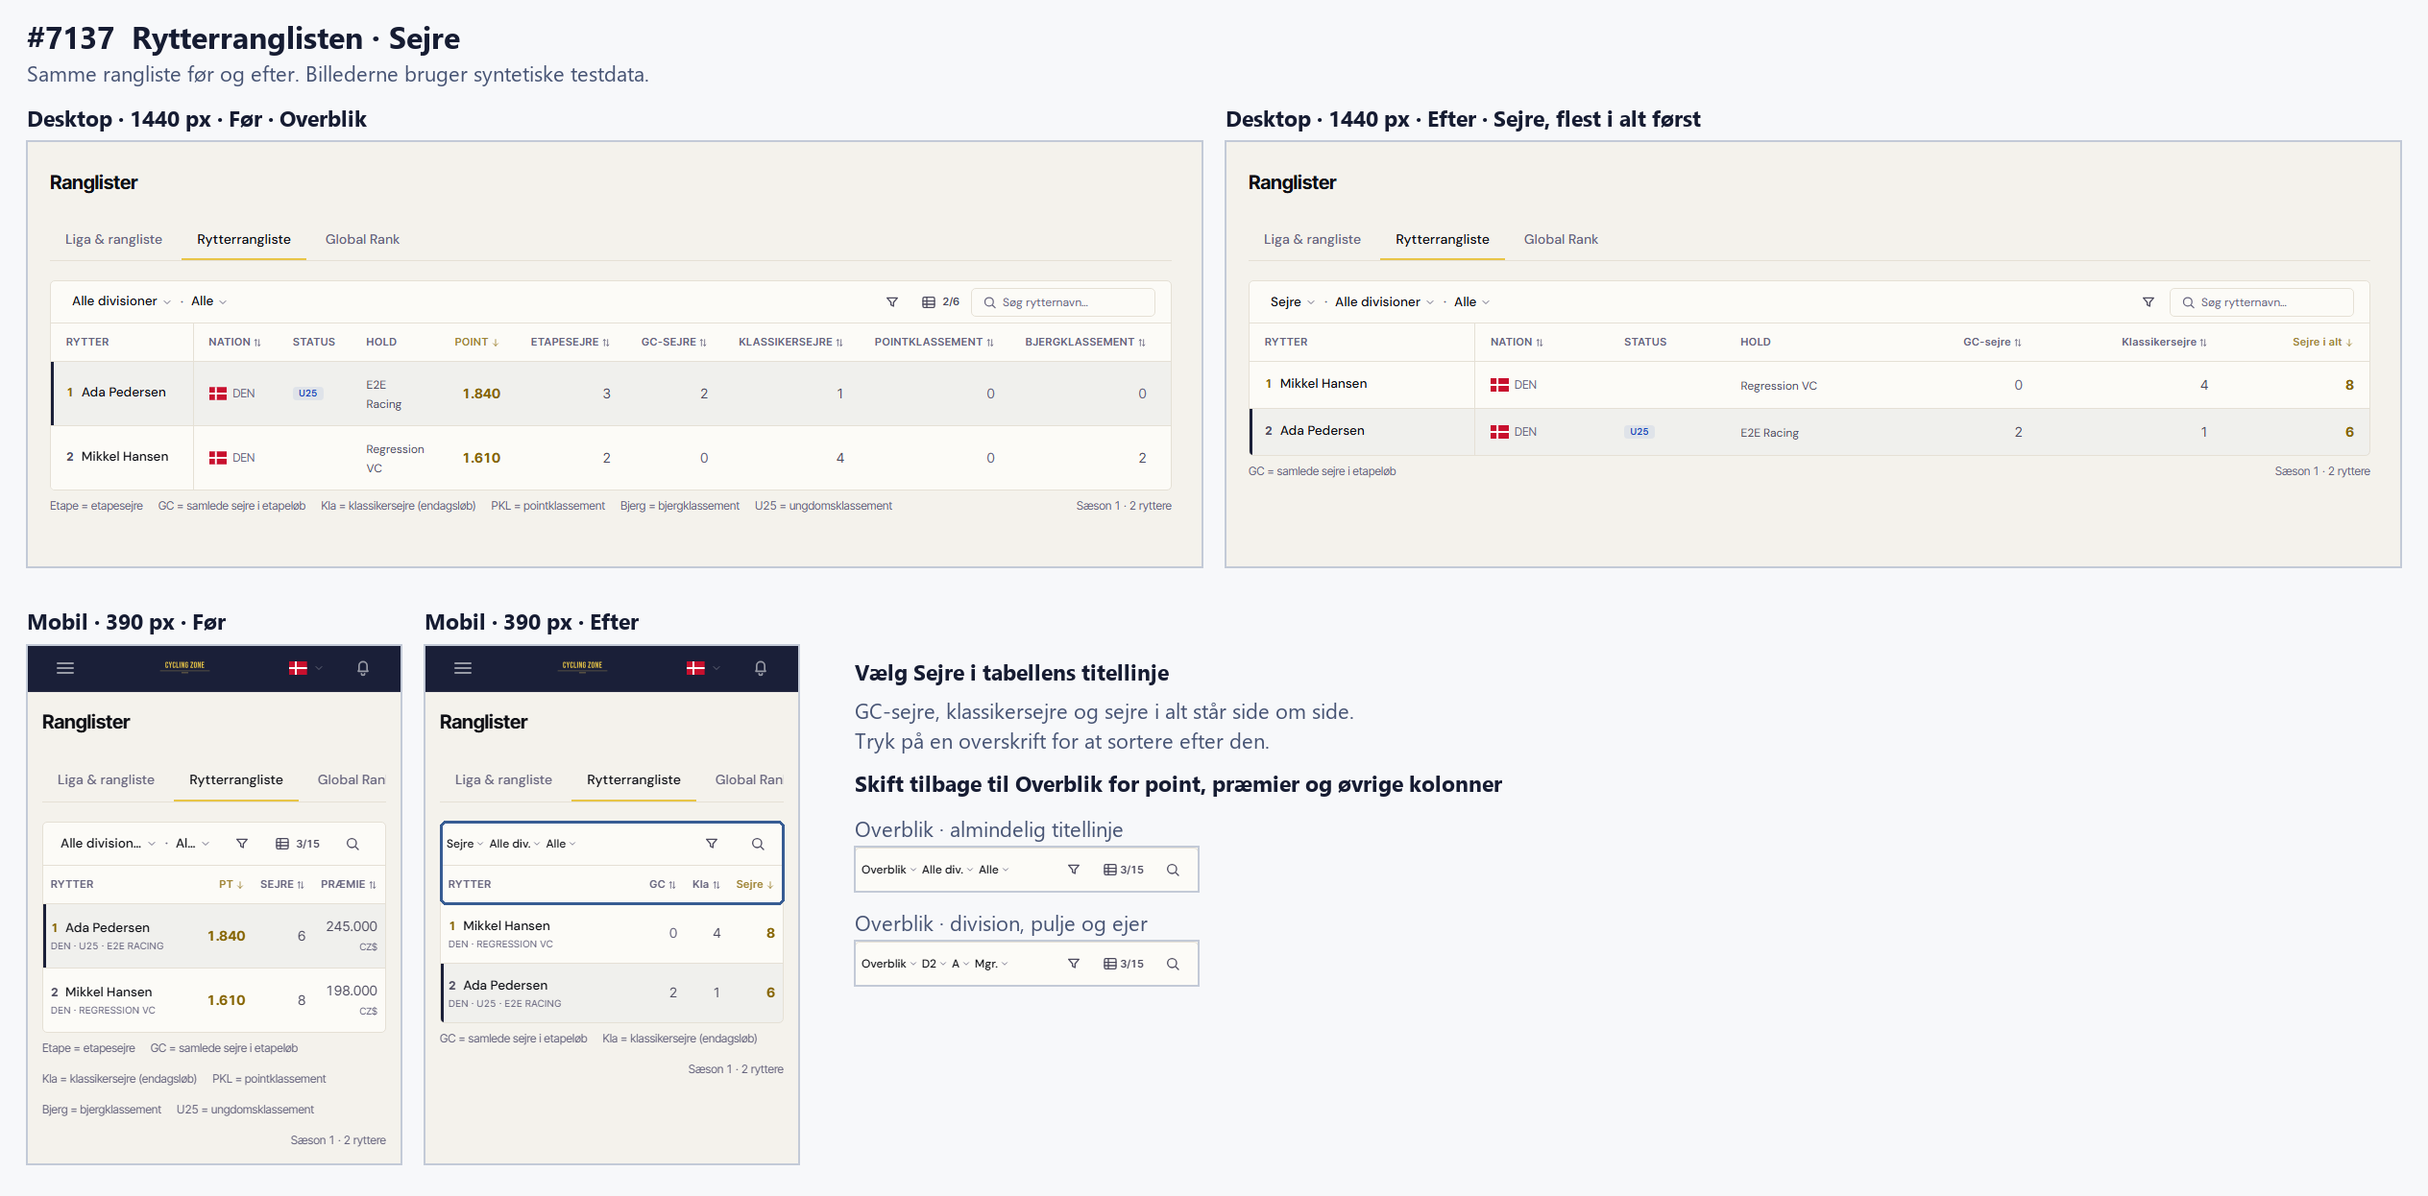
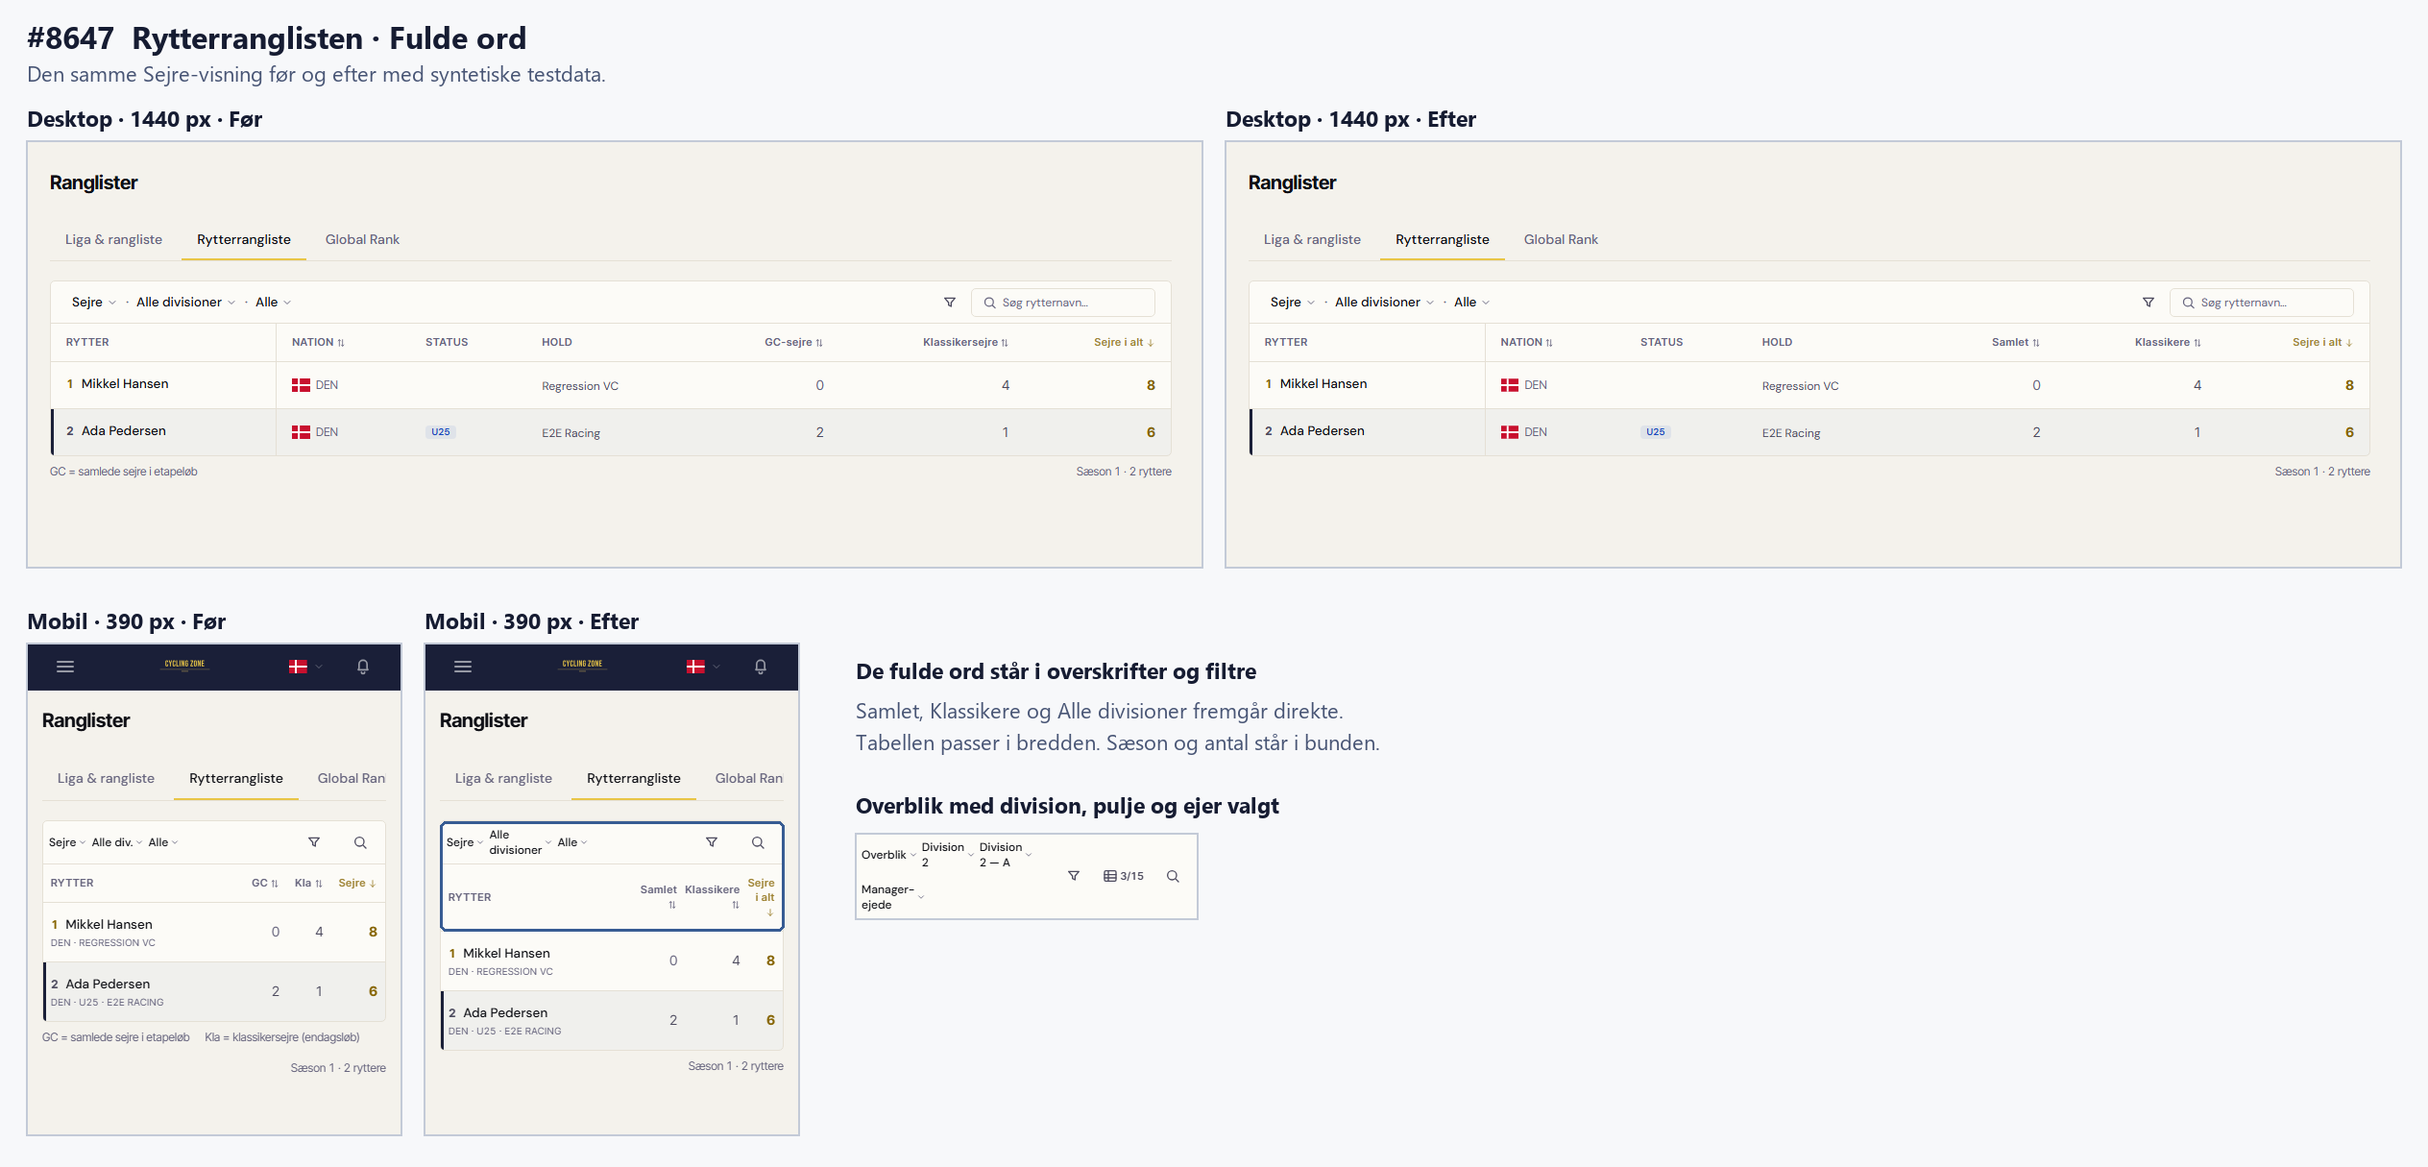
fix(rankings): spell out mobile column and filter labels
Refs #7137

diff --git a/frontend/src/pages/RiderRankingsPage.jsx b/frontend/src/pages/RiderRankingsPage.jsx
@@ -40,8 +40,8 @@ const ALL_DIVISIONS = Array.from(
 // Altid-synlige sejr-kolonner (kategori-sejre) — venstre→højre.
 const WIN_COLS = [
   { key: "stage_wins",   labelKey: "rankings.colStageWins",   shortKey: "rankings.shortStageWins" },
-  { key: "gc_wins",      labelKey: "rankings.colGcWins",      shortKey: "rankings.shortGcWins" },
-  { key: "classic_wins", labelKey: "rankings.colClassicWins", shortKey: "rankings.shortClassicWins" },
+  { key: "gc_wins",      labelKey: "rankings.colGcWins",      shortKey: "rankings.colGcWins" },
+  { key: "classic_wins", labelKey: "rankings.colClassicWins", shortKey: "rankings.colClassicWins" },
   { key: "pts_wins",     labelKey: "rankings.colPtsWins",     shortKey: "rankings.shortPtsWins" },
   { key: "mtn_wins",     labelKey: "rankings.colMtnWins",     shortKey: "rankings.shortMtnWins" },
   { key: "young_wins",   labelKey: "rankings.colYoungWins",   shortKey: "rankings.shortYoungWins" },
@@ -85,10 +85,10 @@ function loadColumnVisibility() {
 }
 
 const OWNER_FILTERS = [
-  { key: "all",     labelKey: "rankings.ownerAll",     shortKey: "rankings.ownerAll" },
-  { key: "manager", labelKey: "rankings.ownerManager", shortKey: "rankings.shortOwnerManager" },
-  { key: "ai",      labelKey: "rankings.ownerAi",      shortKey: "rankings.shortOwnerAi" },
-  { key: "free",    labelKey: "rankings.ownerFree",    shortKey: "rankings.shortOwnerFree" },
+  { key: "all",     labelKey: "rankings.ownerAll" },
+  { key: "manager", labelKey: "rankings.ownerManager" },
+  { key: "ai",      labelKey: "rankings.ownerAi" },
+  { key: "free",    labelKey: "rankings.ownerFree" },
 ];
 
 // Dobbelt header-label (kort på mobil, langt på desktop) — bevaret 1:1 fra den
@@ -361,7 +361,6 @@ export default function RiderRankingsPage() {
       key: col.key,
       header: <ColHeader t={t} labelKey={col.labelKey} shortKey={col.shortKey} />,
       mobileLabel: t(col.labelKey),
-      shortLabel: t(col.shortKey),
       numeric: true,
       sortKey: col.key,
       render: (rider) => <StatCell value={rider[col.key]} active={sortKey === col.key} />,
@@ -371,7 +370,6 @@ export default function RiderRankingsPage() {
       key: "total_wins",
       header: <ColHeader t={t} labelKey="rankings.colTotalWins" shortKey="rankings.shortTotalWins" />,
       mobileLabel: t("rankings.colTotalWins"),
-      shortLabel: t("rankings.shortTotalWins"),
       numeric: true,
       sortKey: "total_wins",
       render: (rider) => <StatCell value={rider.total_wins} active={sortKey === "total_wins"} />,
@@ -407,22 +405,15 @@ export default function RiderRankingsPage() {
       WIN_VIEW_KEYS.includes(col.key) || ("sticky" in col && col.sticky) || ("fold" in col && col.fold)
     )).map(col => {
       if (!WIN_VIEW_KEYS.includes(col.key) || typeof col.mobileLabel !== "string") return col;
-      const label = col.mobileLabel;
-      const buttonText = isMobile && "shortLabel" in col && typeof col.shortLabel === "string"
-        ? col.shortLabel
-        : label;
-      const accessibleLabel = label.toLowerCase().includes(buttonText.toLowerCase())
-        ? label
-        : `${buttonText}: ${label}`;
       return {
         ...col,
-        nowrapHeader: true,
+        tight: isMobile,
         // DataTable handles bubbled clicks and exposes its current aria-sort on the th.
         header: (
-          <button type="button" title={label} aria-label={accessibleLabel}
+          <button type="button"
             className="cursor-pointer rounded-cz text-end focus-visible:outline-2 focus-visible:outline-cz-accent-t"
           >
-            {buttonText}
+            {col.mobileLabel}
           </button>
         ),
       };
@@ -454,9 +445,9 @@ export default function RiderRankingsPage() {
         value: selection.tier ?? ALL_DIVISIONS_VALUE,
         onChange: e => changeDivision(e.target.value),
         options: [
-          { value: ALL_DIVISIONS_VALUE, label: t("rankings.divisionFilterAll"), shortLabel: t("rankings.shortDivisionAll") },
+          { value: ALL_DIVISIONS_VALUE, label: t("rankings.divisionFilterAll") },
           ...ALL_DIVISIONS.map(d => ({
-            value: String(d), label: t("rankings.divisionFilterOption", { n: d }), shortLabel: t("rankings.shortDivision", { n: d }),
+            value: String(d), label: t("rankings.divisionFilterOption", { n: d }),
           })),
         ],
       },
@@ -466,8 +457,8 @@ export default function RiderRankingsPage() {
         value: selection.poolId ?? ALL_POOLS_VALUE,
         onChange: e => changePool(e.target.value),
         options: [
-          { value: ALL_POOLS_VALUE, label: t("rankings.poolFilterAll"), shortLabel: t("rankings.shortPoolAll") },
-          ...tierPools.map(p => ({ value: String(p.id), label: p.label, shortLabel: String.fromCharCode(65 + p.pool_index) })),
+          { value: ALL_POOLS_VALUE, label: t("rankings.poolFilterAll") },
+          ...tierPools.map(p => ({ value: String(p.id), label: p.label })),
         ],
       }] : []),
       {
@@ -475,7 +466,7 @@ export default function RiderRankingsPage() {
         ariaLabel: t("rankings.ownerFilterLabel"),
         value: ownerFilter,
         onChange: e => setOwnerFilter(e.target.value),
-        options: OWNER_FILTERS.map(f => ({ value: f.key, label: t(f.labelKey), shortLabel: t(f.shortKey) })),
+        options: OWNER_FILTERS.map(f => ({ value: f.key, label: t(f.labelKey) })),
       },
     ],
     // #1004: filter på ét konkret hold (fx for at se egne ryttere samlet).
@@ -556,8 +547,6 @@ export default function RiderRankingsPage() {
           count={
             <div className="flex flex-wrap items-center gap-4">
               {!showWins && <span>{t("rankings.legendStage")}</span>}
-              <span>{t("rankings.legendGc")}</span>
-              {(!showWins || isMobile) && <span>{t("rankings.legendClassic")}</span>}
               {!showWins && <>
                 <span>{t("rankings.legendPcl")}</span>
                 <span>{t("rankings.legendMtn")}</span>

diff --git a/frontend/tests/e2e/rider-ranking-wins.spec.ts b/frontend/tests/e2e/rider-ranking-wins.spec.ts
@@ -3,6 +3,8 @@ import { corsHeaders, installNetworkMocks, json, login, stabilizePage } from "./
 import { RIDERS, SEED_RIDER_RANKINGS } from "../../src/preview/seedData.js";
 
 test("#7137 compares all three win counts and restores the overview", async ({ page }) => {
+  const mobile = (page.viewportSize()?.width ?? 1280) <= 640;
+  if (mobile) await page.setViewportSize({ width: 390, height: 844 });
   await stabilizePage(page);
   await installNetworkMocks(page);
   await page.route("**/api/rankings/riders?**", (route) => {
@@ -25,12 +27,14 @@ test("#7137 compares all three win counts and restores the overview", async ({ p
   const firstRider = table.locator("tbody tr").first().getByRole("link").first();
   await expect(firstRider).toHaveAttribute("href", "/riders/rider-1");
 
-  const mobile = (page.viewportSize()?.width ?? 1280) <= 640;
+  const titleBar = page.getByTestId("table-title-bar");
+  const divisionLabel = titleBar.locator('label > span[title="Alle divisioner"]');
+  await expect(divisionLabel).toHaveText("Alle divisioner", { useInnerText: true });
   if (mobile) {
     await page.getByTestId("table-columns-open").click();
-    await page.getByRole("button", { name: "GC-sejre", exact: true }).click();
+    await page.getByRole("button", { name: "Samlet", exact: true }).click();
     await page.keyboard.press("Escape");
-    await expect(table.getByRole("columnheader", { name: /^GC$/ })).toBeVisible();
+    await expect(table.getByRole("columnheader", { name: "Samlet", exact: true })).toBeVisible();
   }
 
   // Preserve a non-default overview sort when switching modes.
@@ -42,11 +46,16 @@ test("#7137 compares all three win counts and restores the overview", async ({ p
 
   const view = page.getByRole("combobox", { name: "Visning", exact: true });
   await view.selectOption("wins");
-  const gc = table.getByRole("columnheader", { name: "GC-sejre", exact: true });
-  const classic = table.getByRole("columnheader", { name: "Klassikersejre", exact: true });
+  const gc = table.getByRole("columnheader", { name: "Samlet", exact: true });
+  const classic = table.getByRole("columnheader", { name: "Klassikere", exact: true });
   const total = table.getByRole("columnheader", { name: "Sejre i alt", exact: true });
   for (const column of [gc, classic, total]) await expect(column).toBeVisible();
   await expect(total).toHaveAttribute("aria-sort", "descending");
+  await expect(page.getByText(/GC\s*=|Kla\s*=/)).toHaveCount(0);
+  if (mobile) {
+    expect(await table.evaluate(node => node.scrollWidth)).toBeLessThanOrEqual(390);
+    expect(await page.evaluate(() => document.documentElement.scrollWidth)).toBe(390);
+  }
   await expect(firstRider).toHaveAttribute("href", "/riders/rider-2");
 
   // 2 stage + 4 classic + 2 mountain wins; the GC field can be zero.
@@ -76,16 +85,16 @@ test("#7137 compares all three win counts and restores the overview", async ({ p
   await expect(overviewWins).toHaveAttribute("aria-sort", "descending");
   await expect(firstRider).toHaveAttribute("href", "/riders/rider-2");
   if (!mobile) return;
-  await expect(table.getByRole("columnheader", { name: /^GC$/ })).toBeVisible();
+  await expect(table.getByRole("columnheader", { name: "Samlet", exact: true })).toBeVisible();
 
-  const titleBar = page.getByTestId("table-title-bar");
   async function expectReadableChoices(count: number) {
     const labels = titleBar.locator("label > span[title]");
     await expect(labels).toHaveCount(count);
     const clipped = await labels.evaluateAll(spans => spans
-      .filter(span => span.scrollWidth > span.clientWidth + 1)
+      .filter(span => span.scrollWidth > span.clientWidth + 1 || span.scrollHeight > span.clientHeight + 1)
       .map(span => span.getAttribute("title")));
     expect(clipped).toEqual([]);
+    expect(await page.evaluate(() => document.documentElement.scrollWidth)).toBe(390);
   }
   await expectReadableChoices(3);
 
@@ -107,4 +116,8 @@ test("#7137 compares all three win counts and restores the overview", async ({ p
   await titleBar.getByRole("combobox", { name: "Filtrér efter pulje" }).selectOption("2");
   await titleBar.getByRole("combobox", { name: "Filtrér efter ejer" }).selectOption("manager");
   await expectReadableChoices(4);
+  const selectedLabels = await titleBar.locator("label > span[title]").allInnerTexts();
+  expect(selectedLabels.map(label => label.replace(/\s+/g, " "))).toEqual([
+    "Overblik", "Division 2", "Division 2 — A", "Manager-ejede",
+  ]);
 });

diff --git a/frontend/src/components/ui/TableTitleBar.tsx b/frontend/src/components/ui/TableTitleBar.tsx
@@ -142,22 +142,25 @@ export default function TableTitleBar({
       )}
 
       <div className={`flex min-w-0 flex-1 items-center gap-x-1 ${search && searchOpen ? "max-sm:hidden" : ""}`}>
-        <div className="flex min-w-0 flex-1 items-center overflow-hidden">
+        <div className={compactChoices
+          ? "flex min-w-0 flex-1 items-center max-sm:flex-wrap sm:overflow-hidden"
+          : "flex min-w-0 flex-1 items-center overflow-hidden"
+        }>
           {choices.map((choice, index) => (
-            <span key={choice.key} className="flex min-w-0 shrink items-center">
+            <span key={choice.key} className={compactChoices
+              ? "flex min-w-0 shrink items-center max-sm:shrink-0 max-sm:basis-[min-content]"
+              : "flex min-w-0 shrink items-center"
+            }>
               {index > 0 && (
                 <span aria-hidden="true" className={compactChoices ? "hidden px-0.5 text-cz-3 sm:inline" : "px-0.5 text-cz-3"}>
                   ·
                 </span>
               )}
               <label className={`relative inline-flex h-11 min-w-0 cursor-pointer items-center rounded-cz font-medium text-cz-1 has-[select:focus-visible]:outline-2 has-[select:focus-visible]:outline-offset-[-2px] has-[select:focus-visible]:outline-cz-accent-t sm:h-9 ${
-                compactChoices ? "gap-0.5 px-0.5 text-xs sm:gap-1 sm:px-1.5 sm:text-[13.5px]" : "gap-1 px-1.5 text-[13.5px]"
+                compactChoices ? "gap-0.5 px-0.5 text-xs max-sm:h-auto max-sm:min-h-11 max-sm:py-1 sm:gap-1 sm:px-1.5 sm:text-[13.5px]" : "gap-1 px-1.5 text-[13.5px]"
               }`}>
-                <span className="truncate" title={choiceLabel(choice)}>
-                  {compactChoices ? <>
-                    <span className="sm:hidden">{choiceLabel(choice, true)}</span>
-                    <span className="hidden sm:inline">{choiceLabel(choice)}</span>
-                  </> : choiceLabel(choice)}
+                <span className={compactChoices ? "min-w-0 sm:truncate" : "truncate"} title={choiceLabel(choice)}>
+                  {choiceLabel(choice)}
                 </span>
                 <ChevronDownIcon size={12} aria-hidden="true" className={compactChoices ? "size-2.5 flex-none text-cz-3 sm:size-3" : "flex-none text-cz-3"} />
                 <select

diff --git a/frontend/src/components/ui/DataTable.jsx b/frontend/src/components/ui/DataTable.jsx
@@ -35,7 +35,6 @@ import {
 //   sublineIndent,// kun sticky: true → pl-[17px] så underlinjen flugter forbi JerseyDot
 //   fold,         // true → skjules ≤640px og foldes ind i sticky-cellens underlinje
 //   foldValue,    // (row) => string — tekstværdi til mobil-fold (default row[key])
-//   nowrapHeader, // hold en kort overskrift og sorteringsikonet samlet på mobil
 //   mobileLabel,  // chip-label på mobil når `header` ikke er ren tekst
 //   mobileHeader, // kolonne-header ≤640px (fx sidens eksisterende korte label);
 //                 // default `header`. #5471: på 390px er tallenes headere det der
@@ -407,7 +406,7 @@ function TableHead({ columns, sort, sortDir, onSort, dense, mobile = false, stic
               // mobile ⇒ compact gutter (px-2) på ALLE celler: på 393px er de
               // 16px ekstra pr. kolonne forskellen på at tabellen passer og på
               // at den skubber sig selv ud over kanten (målt, ikke gættet).
-              className={`${thClass({ numeric: col.numeric, sticky: !mobile && col.sticky, compact: mobile || col.compact, tight: col.tight, dense, stickyHeader, wrap: mobile && !col.nowrapHeader })} ${!mobile && col.fold ? "hidden sm:table-cell" : ""} ${sortableCls}`}
+              className={`${thClass({ numeric: col.numeric, sticky: !mobile && col.sticky, compact: mobile || col.compact, tight: col.tight, dense, stickyHeader, wrap: mobile })} ${!mobile && col.fold ? "hidden sm:table-cell" : ""} ${sortableCls}`}
               onClick={sortable ? () => onSort(col.sortKey) : undefined}
               aria-sort={
                 sortable ? (active ? (sortDir === "desc" ? "descending" : "ascending") : "none") : undefined

diff --git a/frontend/src/components/ui/tableTitleBar.ts b/frontend/src/components/ui/tableTitleBar.ts
@@ -1,7 +1,7 @@
 // #8280 (TASTE P21) — ren logik bag tabellens titellinje, så den kan testes med
 // `node --test` uden DOM. Selve markuppen bor i TableTitleBar.tsx.
 
-export type TitleBarOption = { value: string | number; label: string; shortLabel?: string };
+export type TitleBarOption = { value: string | number; label: string };
 
 export type TitleBarChoice = {
   key: string;
@@ -35,11 +35,10 @@ export function columnsSummary(count: number | undefined, total: number | undefi
  * uden match (fx en værdi der ikke længere findes) falder tilbage til første
  * option, så linjen aldrig står tom.
  */
-export function choiceLabel(choice: { value?: string | number; options?: TitleBarOption[] } | null | undefined, compact = false): string {
+export function choiceLabel(choice: { value?: string | number; options?: TitleBarOption[] } | null | undefined): string {
   const options = choice?.options ?? [];
   const match = options.find((o) => String(o.value) === String(choice?.value ?? ""));
-  const option = match ?? options[0];
-  return (compact ? option?.shortLabel : undefined) ?? option?.label ?? "";
+  return (match ?? options[0])?.label ?? "";
 }
 
 /**

diff --git a/frontend/src/components/ui/tableTitleBar.test.ts b/frontend/src/components/ui/tableTitleBar.test.ts
@@ -25,13 +25,6 @@ test("choiceLabel viser den valgte options label og falder tilbage til den førs
   assert.equal(choiceLabel({ value: "x", options: [] }), "");
 });
 
-test("choiceLabel uses a short label only in compact mode", () => {
-  const choice = { value: "2", options: [{ value: "all", label: "All" }, { value: "2", label: "Division 2", shortLabel: "D2" }] };
-  assert.equal(choiceLabel(choice), "Division 2");
-  assert.equal(choiceLabel(choice, true), "D2");
-  assert.equal(choiceLabel({ ...choice, value: "all" }, true), "All");
-});
-
 test("table_control_used bærer kun side og kontrolnavn (aldrig værdier eller persondata)", () => {
   assert.deepEqual(tableControlPayload("rider_database", "filters"), { page: "rider_database", control: "filters" });
   assert.deepEqual(tableControlPayload("rider_rankings", "column", "top3"), {
